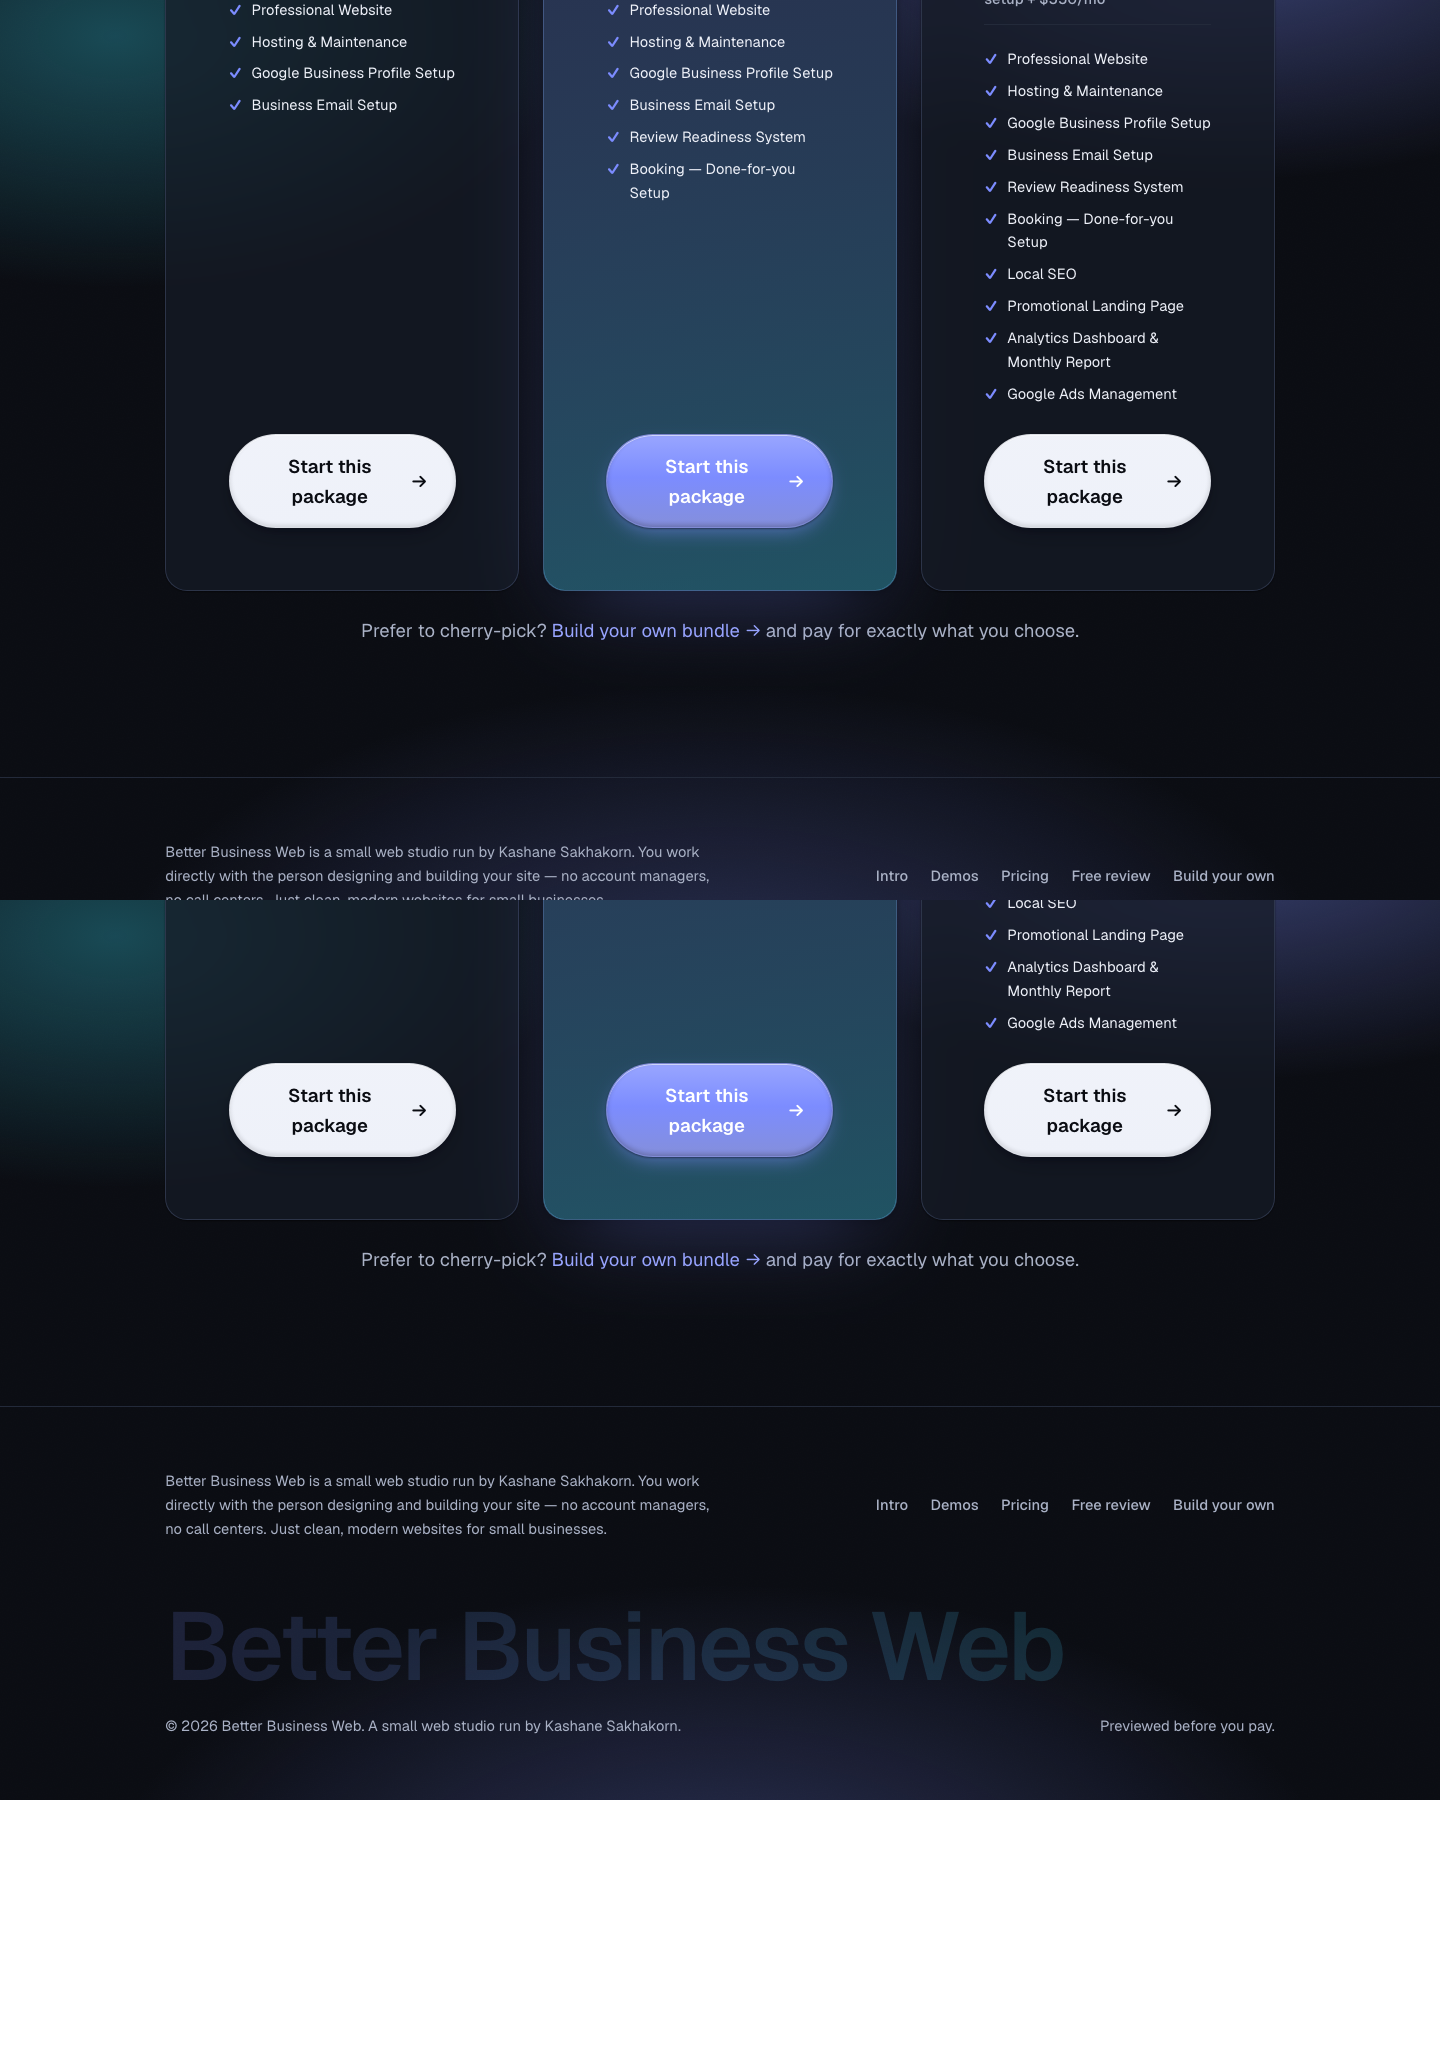
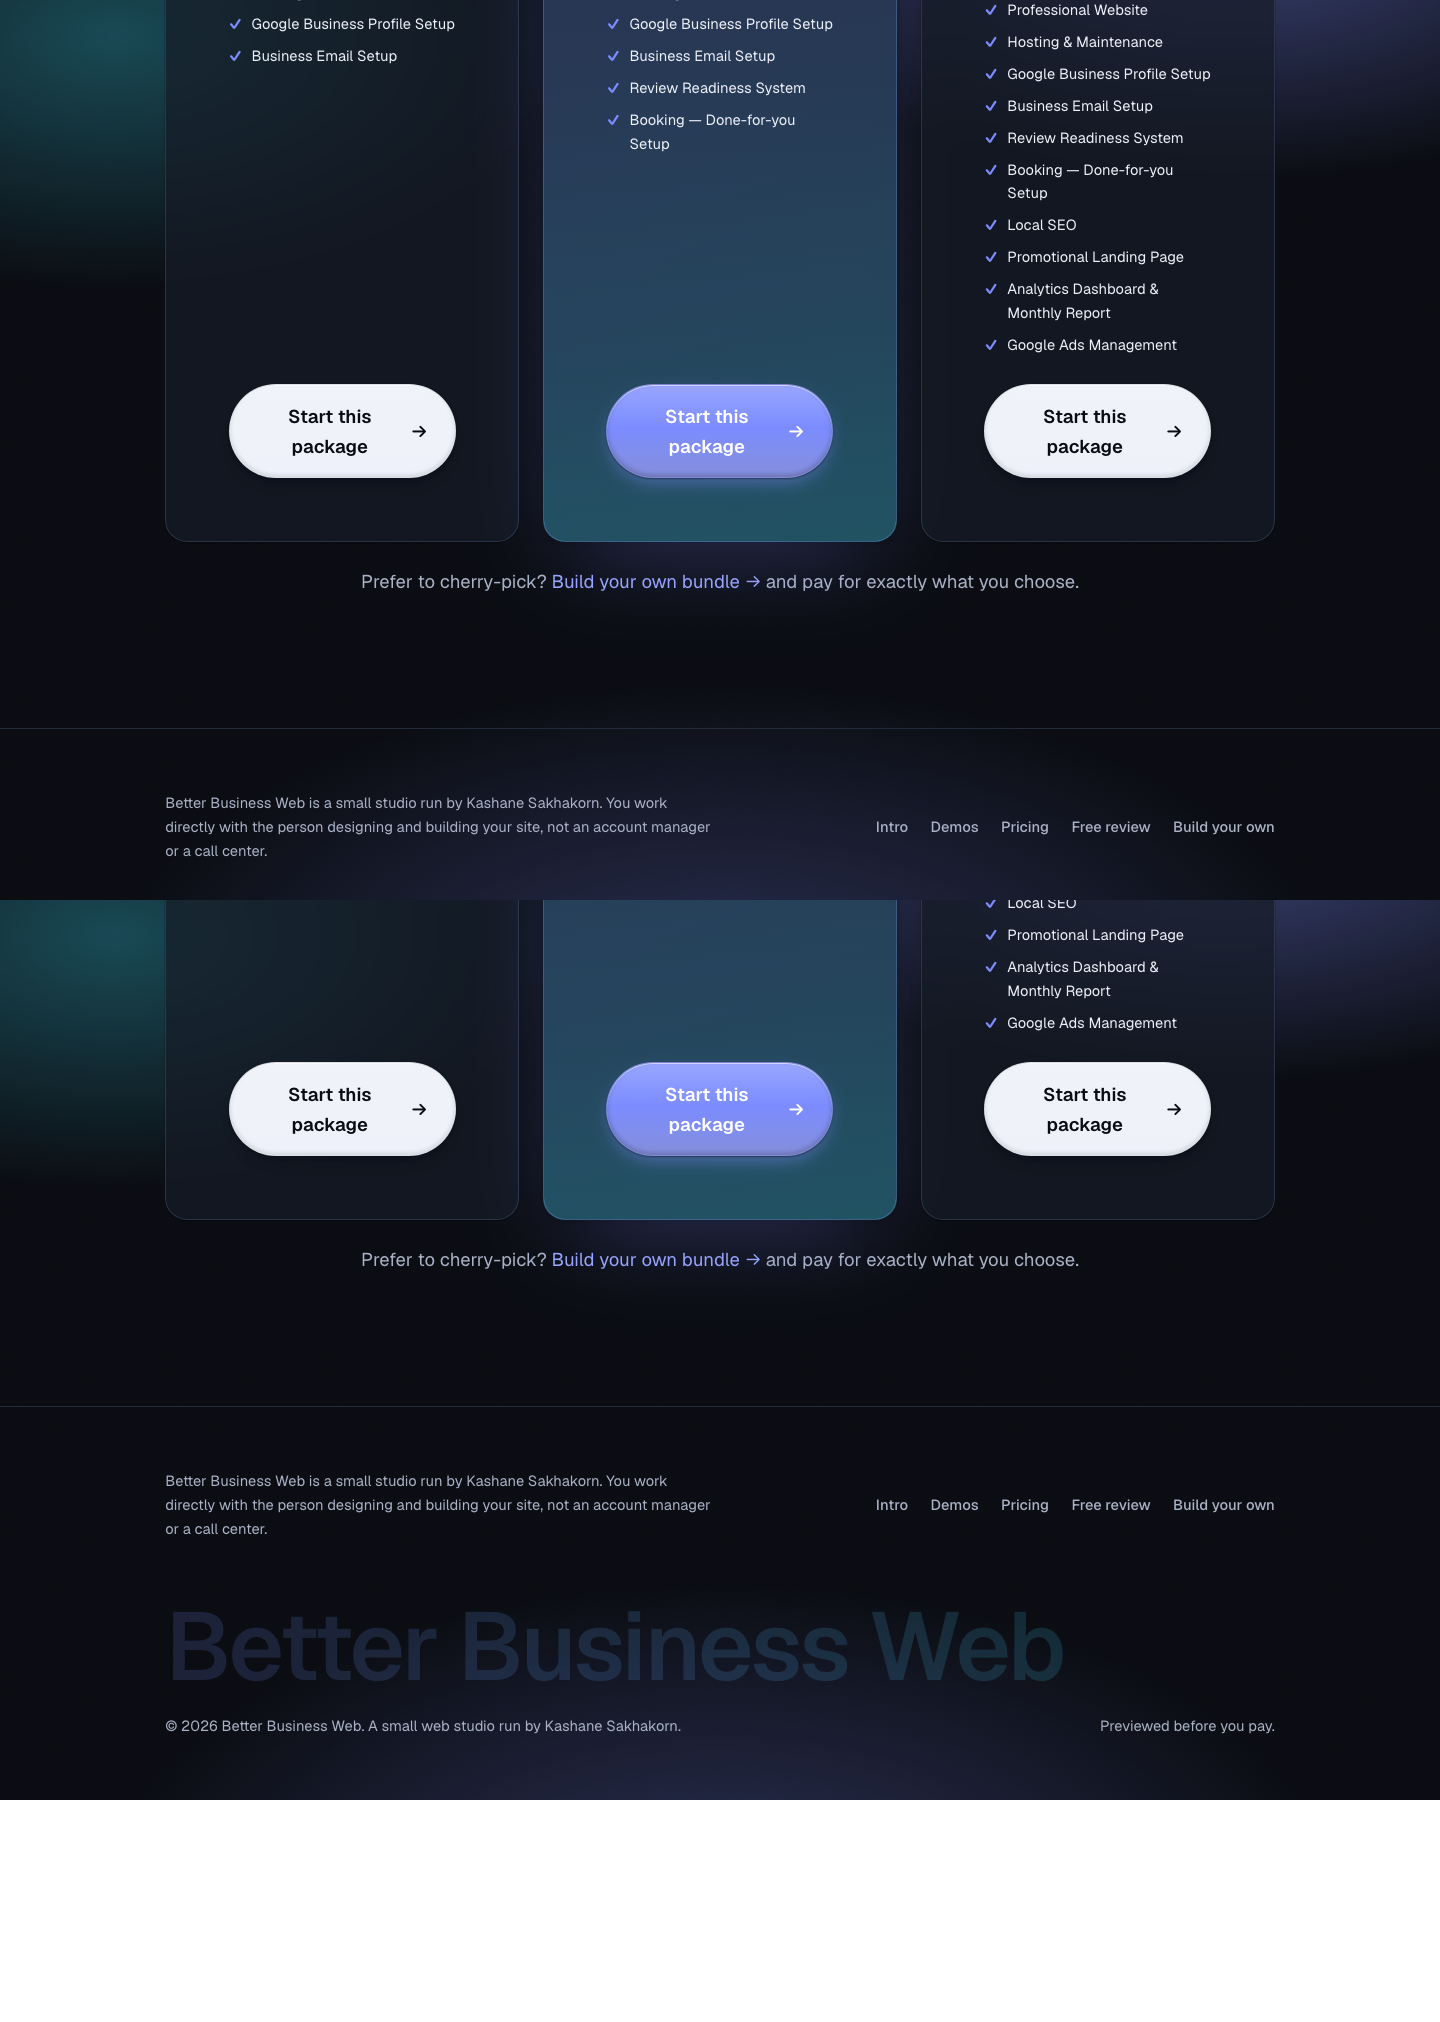
fix(bbw): accent-button hover text, centered headings, copy cleanup
- Accent buttons are <a>s, so the global a:hover rule repainted their label
  with var(--accent) — indigo text on the indigo button, i.e. it vanished on
  hover (visible on Package B's "Start this package"). Scope the rule to
  a:not(.btn):hover so buttons keep their own colours. Fixes every accent CTA.
- .section-head.center never got margin-inline:auto (the rule only matched
  .center as an ANCESTOR), so centered headings sat left-of-centre. Now the
  free-review hero (and the pricing/demos heads) centre properly.
- Copy pass across all pages: removed em-dashes from body text and trimmed the
  AI-tell phrasing ("clean, modern", rule-of-three lists, "That's the whole
  point", "no X, no Y", "Here's what happens next"). Voice stays first-person.

Build page itself was never broken — that was a transient "BrandMark is not
defined" dev-server window mid-edit; the island hydrates and prices update.

diff --git a/products/better-business-web/site/src/styles/global.css b/products/better-business-web/site/src/styles/global.css
@@ -100,7 +100,9 @@ body::after {
 
 img { max-width: 100%; height: auto; display: block; }
 a { color: var(--accent-2); text-decoration: none; }
-a:hover { color: var(--accent); }
+/* Exclude buttons: they are <a>s with their own per-variant colours, and this
+   rule would otherwise repaint an accent button's label indigo-on-indigo. */
+a:not(.btn):hover { color: var(--accent); }
 :focus-visible { outline: none; box-shadow: var(--ring); border-radius: 8px; }
 
 /* Typography --------------------------------------------------------- */
@@ -137,7 +139,7 @@ p { margin: 0 0 var(--space-sm); }
 .center .eyebrow::after { content: ""; width: 1.8rem; height: 1px; background: currentColor; opacity: 0.6; }
 
 .section-head { max-width: 60ch; margin-bottom: var(--space-lg); }
-.center .section-head { margin-inline: auto; }
+.center .section-head, .section-head.center { margin-inline: auto; }
 
 /* Buttons ------------------------------------------------------------ */
 .btn {
